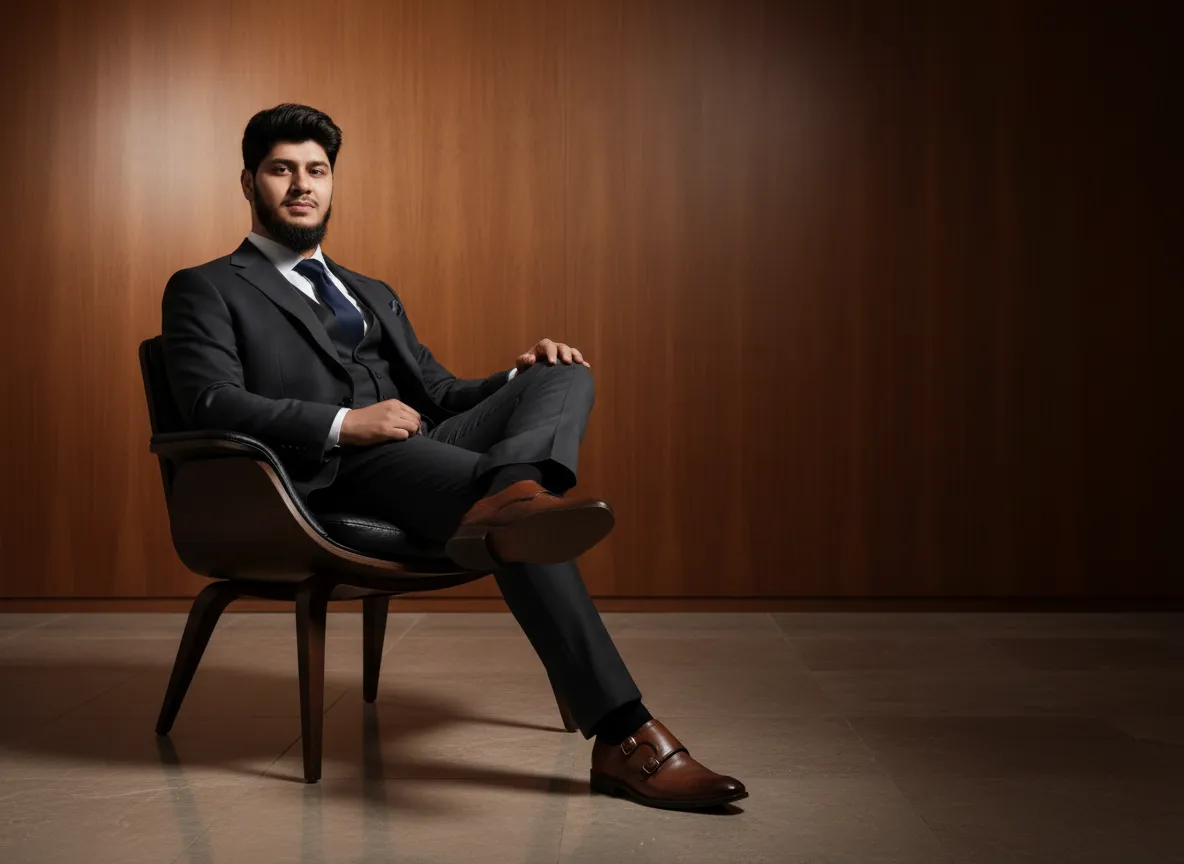
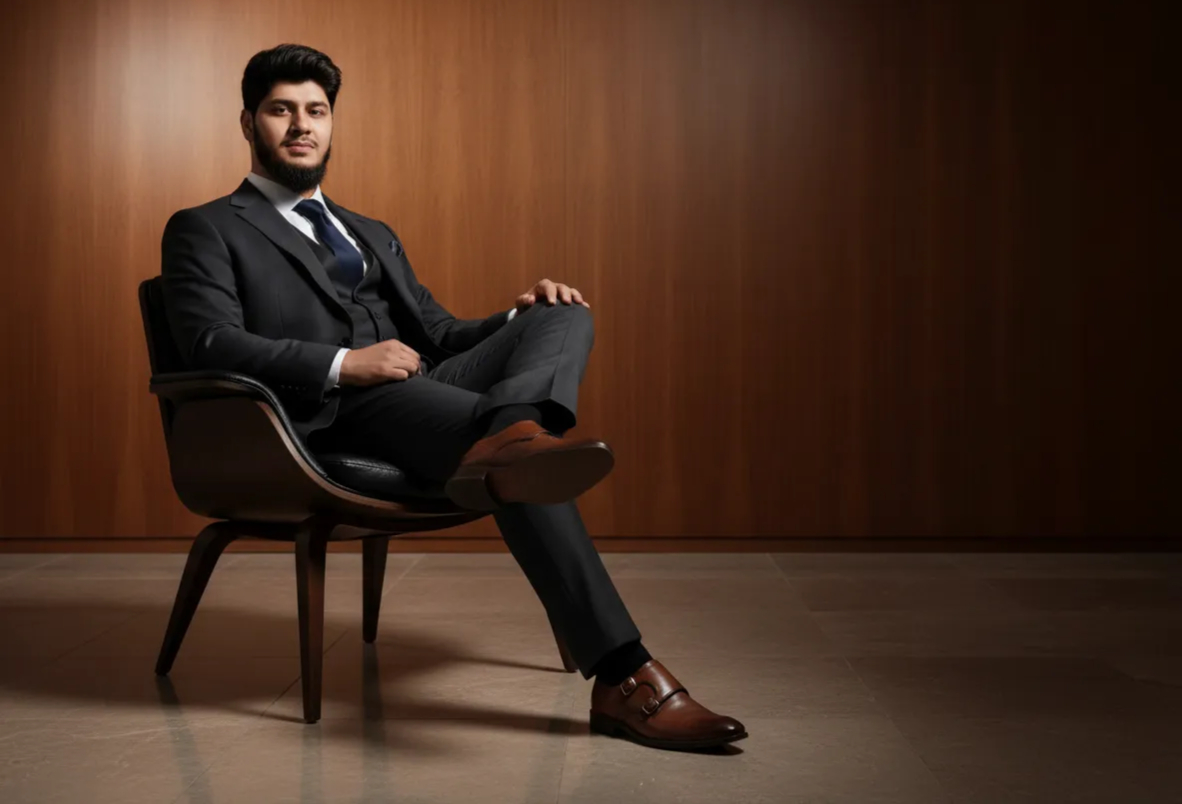
final changes

Changed region(s): [[0.0, 0.0, 0.9137, 0.9639], [0.0609, 0.8706, 0.2741, 0.9328], [0.335, 0.0, 0.3655, 0.0311]]

diff --git a/about-us.html b/about-us.html
@@ -47,7 +47,7 @@
   <meta name="apple-mobile-web-app-status-bar-style" content="black-translucent">
   <!-- Custom Browser Color End -->
 
-  <link rel="stylesheet" type="text/css" href="css/mood-designs-custom.css?v=20260612">
+  <link rel="stylesheet" type="text/css" href="css/mood-designs-custom.css?v=20260615">
 </head>
 
 <body>
@@ -308,7 +308,7 @@
                       </a>
                     </div>
                     <div class="mxd-stats-cards__image mxd-stats-cards-image-1">
-                      <img src="page-images/about-us/story/image-1.jpg" alt="Illustration">
+                      <img src="page-images/about-us/stats/heart.gif" alt="Happy clients">
                     </div>
                   </div>
                 </div>
@@ -349,7 +349,7 @@
                       <p class="mxd-counter__descr t-140 t-bright">Clients come back for<br>a new projects</p>
                     </div>
                     <div class="mxd-stats-cards__image mxd-stats-cards-image-2">
-                      <img src="page-images/about-us/story/image-1.jpg" alt="Illustration">
+                      <img src="page-images/about-us/stats/sweep.gif" alt="Returning clients">
                     </div>
                   </div>
                 </div>
@@ -368,7 +368,7 @@
                       </a>
                     </div>
                     <div class="mxd-stats-cards__image mxd-stats-cards-image-3">
-                      <img src="page-images/about-us/story/image-1.jpg" alt="Illustration">
+                      <img src="page-images/about-us/stats/star.gif" alt="Years of experience">
                     </div>
                   </div>
                 </div>
@@ -386,7 +386,7 @@
                       </a>
                     </div>
                     <div class="mxd-stats-cards__image mxd-stats-cards-image-4">
-                      <img src="page-images/about-us/story/image-1.jpg" alt="Illustration">
+                      <img src="page-images/about-us/stats/spring.gif" alt="Completed projects">
                     </div>
                   </div>
                 </div>
@@ -606,7 +606,10 @@
                   class="col-12 col-xl-8 mxd-team-cards__item mxd-grid-item no-margin-desktop padding-bottom-desktop animate-card-3">
                   <div class="mxd-team-cards__media anim-uni-in-up">
                     <div class="mxd-team-cards__photo">
-                      <img src="page-images/about-us/team/Zuhaib.webp" alt="Zuhaib Ansari - Founder &amp; Creative Director">
+                      <picture>
+                        <source srcset="page-images/about-us/team/Zuhaib-mobile.webp" media="(max-width: 767px)">
+                        <img src="page-images/about-us/team/Zuhaib.webp" alt="Zuhaib Ansari - Founder &amp; Creative Director">
+                      </picture>
                     </div>
                     <div class="mxd-team-cards__socials">
                       <a class="btn btn-anim tag tag-default tag-permanent" href="https://www.linkedin.com/company/zuhaib-design/"
@@ -924,9 +927,9 @@
 
   <!-- Load Scripts Start -->
   <script src="js/libs.min.js"></script>
-  <script src="js/app.js?v=20260612"></script>
+  <script src="js/app.js?v=20260615"></script>
 
-  <script src="js/mood-designs-custom.js?v=20260612"></script>
+  <script src="js/mood-designs-custom.js?v=20260615"></script>
 </body>
 
 </html>

diff --git a/js/app.js b/js/app.js
@@ -774,28 +774,34 @@ if(document.querySelector(".stack-item")) {
 // --------------------------------------------- //
 // Animation - Buttons Common Start
 // --------------------------------------------- //
-let elements = document.querySelectorAll(".btn-anim .btn-caption");
+window.initializeButtonAnimations = function(container = document) {
+  let elements = container.querySelectorAll(".btn-anim .btn-caption:not(.btn-anim-initialized)");
 
-elements.forEach((element) => {
-  let innerText = element.innerText;
-  element.innerHTML = "";
-  let textContainer = document.createElement("div");
-  textContainer.classList.add("btn-anim__block");
-  for (let letter of innerText) {
-    let span = document.createElement("span");
-    span.innerText = letter.trim() === "" ? "\xa0" : letter;
-    span.classList.add("btn-anim__letter");
-    textContainer.appendChild(span);
-  }
+  elements.forEach((element) => {
+    element.classList.add("btn-anim-initialized");
+    let innerText = element.innerText;
+    element.innerHTML = "";
+    let textContainer = document.createElement("div");
+    textContainer.classList.add("btn-anim__block");
+    for (let letter of innerText) {
+      let span = document.createElement("span");
+      span.innerText = letter.trim() === "" ? "\xa0" : letter;
+      span.classList.add("btn-anim__letter");
+      textContainer.appendChild(span);
+    }
     element.appendChild(textContainer);
     element.appendChild(textContainer.cloneNode(true));
-});
+  });
 
-elements.forEach((element) => {
-  element.addEventListener("mouseover", () => {
-    element.classList.remove("play");
-  })
-});
+  elements.forEach((element) => {
+    element.addEventListener("mouseover", () => {
+      element.classList.remove("play");
+    });
+  });
+};
+
+// Initialize static buttons on load
+initializeButtonAnimations();
 // --------------------------------------------- //
 // Animation - Buttons Common End
 // --------------------------------------------- //

diff --git a/index.html b/index.html
@@ -47,7 +47,7 @@
   <meta name="apple-mobile-web-app-status-bar-style" content="black-translucent">
   <!-- Custom Browser Color End -->
 
-  <link rel="stylesheet" type="text/css" href="css/mood-designs-custom.css?v=20260612">
+  <link rel="stylesheet" type="text/css" href="css/mood-designs-custom.css?v=20260615">
 
   <!-- Case Studies — Horizontal Scroll, Bottom-Up Image Growth styles -->
   <style>
@@ -178,7 +178,7 @@
       bottom: 0;
       display: flex;
       flex-direction: column;
-      align-items: center;
+      align-items: flex-start;
       gap: clamp(10px, 2.2vh, 24px);
       padding: clamp(16px, 3.5vh, 36px) clamp(16px, 2.5vw, 44px) 0;
       opacity: 0;
@@ -202,7 +202,8 @@
       line-height: 1.05;
       letter-spacing: -0.02em;
       font-weight: 600;
-      text-align: center;
+      text-align: left;
+      align-self: stretch;
     }
 
     /* Final cell — the Portfolio end card owns the whole screen. */
@@ -1022,7 +1023,7 @@
                         </div>
                         <div class="col-12">
                           <div class="mxd-section-title__descr">
-                            <p class="anim-uni-in-up">Explore a selection of projects blending<br>creativity with
+                            <p class="anim-uni-in-up">Explore a selection of projects blending creativity with
                               practical design</p>
                           </div>
                         </div>
@@ -1863,9 +1864,9 @@
     })();
   </script>
 
-  <script src="js/app.js?v=20260612"></script>
+  <script src="js/app.js?v=20260615"></script>
 
-  <script src="js/mood-designs-custom.js?v=20260612"></script>
+  <script src="js/mood-designs-custom.js?v=20260615"></script>
 
   <!--
     Case Studies — Horizontal Scroll, Bottom-Up Image Growth

diff --git a/css/main.css b/css/main.css
@@ -5111,6 +5111,7 @@ form textarea:required:valid {
 }
 
 .mxd-project-item__promo {
+  text-align: left;
   padding: 0 3rem;
 }
 @media only screen and (min-width: 768px) {
@@ -17351,6 +17352,40 @@ form textarea:required:valid {
     right: -6rem;
   }
 }
+@media only screen and (max-width: 768px) {
+  .mxd-stats-cards__image {
+    top: 0;
+    width: 60%;
+    max-width: none;
+    padding: 0;
+  }
+  .mxd-stats-cards__image.mxd-stats-cards-image-1 {
+    width: 240px;
+    top: 350px;
+    left: 10rem;
+  }
+  .mxd-stats-cards__image.mxd-stats-cards-image-2 {
+    width: 240px;
+    top: auto;
+    bottom: 0rem;
+    left: 10rem;
+    padding-top: 4rem;
+  }
+  .mxd-stats-cards__image.mxd-stats-cards-image-3 {
+    width: 240px;
+    top: auto;
+    right: 0rem;
+    bottom: 0;
+    left: auto;
+  }
+  .mxd-stats-cards__image.mxd-stats-cards-image-4 {
+    width: 280px;
+    top: auto;
+    bottom: 0rem;
+    left: auto;
+    right: 0rem;
+  }
+}
 @media only screen and (min-width: 1200px) {
   .mxd-stats-cards__image.mxd-stats-cards-image-1 {
     width: 330px;
@@ -17362,21 +17397,20 @@ form textarea:required:valid {
 }
 @media only screen and (min-width: 1600px) {
   .mxd-stats-cards__image.mxd-stats-cards-image-1 {
-    width: 470px;
-    top: 4rem;
-    left: -6rem;
+    width: 370px;
+    margin-top: 30rem;
+    left: -3rem;
   }
   .mxd-stats-cards__image.mxd-stats-cards-image-2 {
-    width: 620px;
+    width: 520px;
     bottom: auto;
-    top: 4rem;
-    padding-top: 0;
+    margin-top: 20px;
   }
   .mxd-stats-cards__image.mxd-stats-cards-image-3 {
-    width: 620px;
+    width: 520px;
   }
   .mxd-stats-cards__image.mxd-stats-cards-image-4 {
-    width: 400px;
+    width: 500px;
   }
 }
 

diff --git a/js/portfolio-engine.js b/js/portfolio-engine.js
@@ -55,7 +55,7 @@
         const categoryLabel = project.category.charAt(0).toUpperCase() + project.category.slice(1);
         const tags = [categoryLabel, ...project.meta.split("//").map(s => s.trim())];
         const tagsHTML = tags.map(tag => `<span class="tag tag-default tag-permanent">${tag}</span>`).join("\n");
-        
+
         return `
             <div class="col-12 col-xl-6 mxd-project-item mxd-projects-masonry__item card-enter active anim-uni-in-up" 
                  data-category="${project.category}" 
@@ -199,7 +199,7 @@
             </button>`;
 
         filterContainer.innerHTML =
-            tab("all", "All Archive", true) +
+            tab("all", "All Projects", true) +
             categories.map((c) => tab(c, cap(c), false)).join("");
     }
 
@@ -237,6 +237,9 @@
 
         // Build category filter tabs from the data
         renderFilters();
+        if (typeof window.initializeButtonAnimations === "function") {
+            window.initializeButtonAnimations(document.getElementById("portfolio-filters"));
+        }
 
         // Load first batch
         loadNextBatch();

diff --git a/js/mood-designs-custom.js b/js/mood-designs-custom.js
@@ -16,7 +16,7 @@
         <nav class="nav-links">
             <a href="index.html">Home</a>
             <a href="about-us.html">About</a>
-            <a href="portfolio.html">Portfolio</a>
+            <a href="portfolio.html">Projects</a>
             <a href="index.html#services">Services</a>
             <a href="contact.html">Contact</a>
         </nav>
@@ -35,11 +35,11 @@
         <button class="close-menu" aria-label="Close Menu">&times;</button>
         <a href="index.html">Home</a>
         <a href="about-us.html">About</a>
-        <a href="portfolio.html">Portfolio</a>
+        <a href="portfolio.html">Projects</a>
         <a href="contact.html">Contact</a>
     </nav>
 
-    <a href="https://wa.me/923029850812" class="mood-whatsapp-float" target="_blank">
+    <a href="https://wa.me/923214086407" class="mood-whatsapp-float" target="_blank">
         <div class="mood-whatsapp-content">
             <span class="mood-whatsapp-text">Say Hello!</span>
             <div class="mood-whatsapp-icon">

diff --git a/css/mood-designs-custom.css b/css/mood-designs-custom.css
@@ -1840,6 +1840,11 @@ html:not([color-scheme]) .mxd-cs-end-card__pill {
 /* ==========================================================================
    Team photos — anchor to the top so members' heads are never cropped
    ========================================================================== */
+.mxd-team-cards__photo picture {
+  width: 100%;
+  height: 100%;
+  display: block;
+}
 .mxd-team-cards__photo img {
   object-position: top center;
 }
@@ -1934,6 +1939,18 @@ html:not([color-scheme]) .mxd-cs-end-card__pill {
   .mxd-hero-00 .hero-00-image.image-02 {
     left: auto;
     right: calc(50% - 579px);   /* K244 + mqW/2 245 + starW/2 90 */
+  }
+}
+
+/* Make email link green on mobile without hover */
+@media only screen and (max-width: 767px) {
+  .btn-line-headline span {
+    color: var(--accent) !important;
+    font-size: 2.5rem;
+  }
+  .btn-line-headline i {
+    color: var(--accent) !important;
+    
   }
 }
 

diff --git a/contact.html b/contact.html
@@ -48,7 +48,7 @@
   <meta name="apple-mobile-web-app-status-bar-style" content="black-translucent">
   <!-- Custom Browser Color End -->
 
-  <link rel="stylesheet" type="text/css" href="css/mood-designs-custom.css?v=20260612">
+  <link rel="stylesheet" type="text/css" href="css/mood-designs-custom.css?v=20260615">
 </head>
 
 <body>
@@ -881,10 +881,10 @@
 
   <!-- Load Scripts Start -->
   <script src="js/libs.min.js"></script>
-  <script src="js/app.js?v=20260612"></script>
+  <script src="js/app.js?v=20260615"></script>
   <!-- Load Scripts End -->
 
-  <script src="js/mood-designs-custom.js?v=20260612"></script>
+  <script src="js/mood-designs-custom.js?v=20260615"></script>
 </body>
 
 </html>

diff --git a/casestudy.html b/casestudy.html
@@ -499,9 +499,9 @@
 
     <!-- Load Scripts Start -->
     <script src="js/libs.min.js"></script>
-    <script src="js/app.js?v=20260612"></script>
+    <script src="js/app.js?v=20260615"></script>
     
-    <script src="js/mood-designs-custom.js?v=20260612"></script>
+    <script src="js/mood-designs-custom.js?v=20260615"></script>
     <script src="js/casestudy-engine.js"></script>
   </body>
 

diff --git a/portfolio.html b/portfolio.html
@@ -414,9 +414,9 @@
 
     <!-- Load Scripts Start -->
     <script src="js/libs.min.js"></script>
-    <script src="js/app.js?v=20260612"></script>
+    <script src="js/app.js?v=20260615"></script>
     
-    <script src="js/mood-designs-custom.js?v=20260612"></script>
+    <script src="js/mood-designs-custom.js?v=20260615"></script>
     <script src="js/portfolio-engine.js"></script>
   </body>
 
